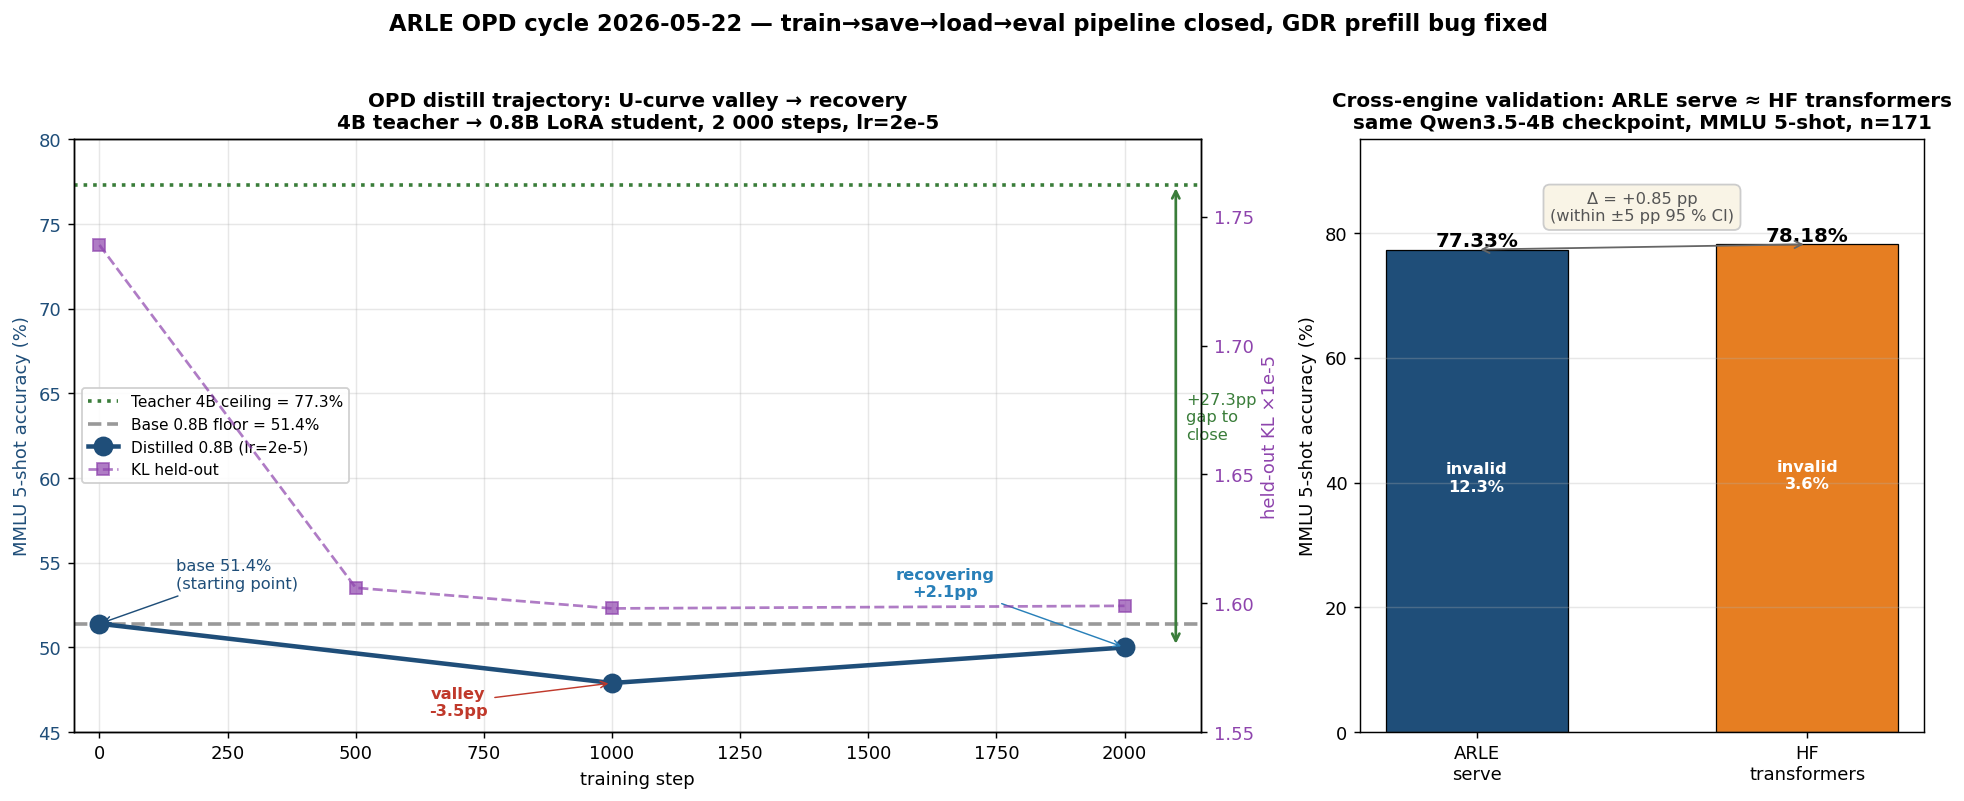
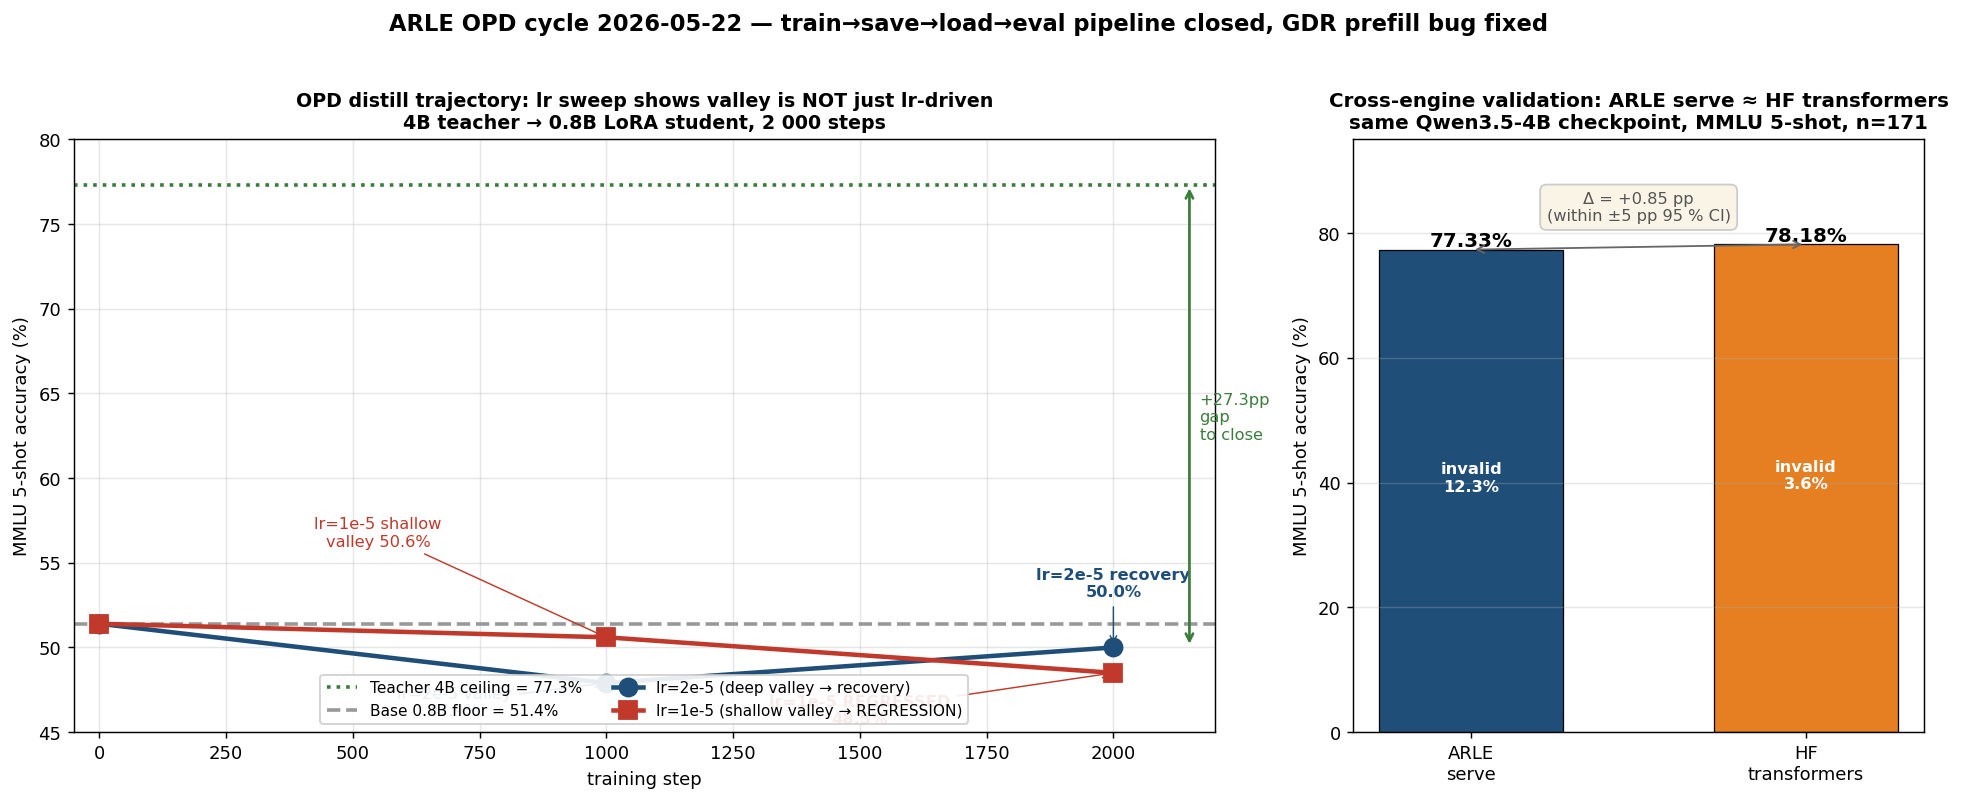
docs(opd): chart + README with lr sweep finding — valley is fundamental, not lr-driven
Codex P2 lr=1e-5 sweep (0629294) revealed: lr is NOT the simple knob for
the OPD U-curve. Comparison:

  lr=2e-5: 51.4% → 47.9% (valley) → 50.0% (recovery +2.1pp)
  lr=1e-5: 51.4% → 50.6% (shallow valley) → 48.5% (REGRESSION −2.1pp)

Lower lr buys a shallower valley but the recovery dynamic also weakens.
Neither lr crosses base 51.4% in 2k steps. → OPD U-curve is a
fundamental distillation dynamic, not a learning-rate artifact.

Chart rebuilt to overlay both lr trajectories vs the 4B teacher
ceiling. README headline updated with both runs + the lr-sweep KILL
errors entry link.

diff --git a/scripts/plot_opd_today.py b/scripts/plot_opd_today.py
@@ -21,63 +21,52 @@ OUT = Path(__file__).resolve().parents[1] / "docs/projects/img/2026-05-22-arle-o
 
 
 def panel_trajectory(ax):
-    steps = np.array([0, 500, 1000, 2000])
-    # MMLU accuracy (%): base=51.4, step1000=47.9, step2000=50.0 measured;
-    # step 500 not eval'd → interpolate as the segment between 51.4 → 47.9.
-    mmlu_distill = np.array([51.4, np.nan, 47.9, 50.0])
+    steps = np.array([0, 1000, 2000])
+    mmlu_lr2e5 = np.array([51.4, 47.9, 50.0])
+    mmlu_lr1e5 = np.array([51.4, 50.6, 48.5])
     base_floor = 51.4
     teacher_ceiling = 77.33
 
-    # KL trajectory (×1e-5): heldout
-    kl_heldout = np.array([1.739, 1.606, 1.598, 1.599])
-
-    # MMLU axis
-    ax.set_xlim(-50, 2150)
+    ax.set_xlim(-50, 2200)
     ax.set_ylim(45, 80)
     ax.set_xlabel("training step")
-    ax.set_ylabel("MMLU 5-shot accuracy (%)", color="#1f4e79")
-    ax.tick_params(axis="y", labelcolor="#1f4e79")
+    ax.set_ylabel("MMLU 5-shot accuracy (%)")
 
-    # Teacher ceiling line
-    ax.axhline(teacher_ceiling, color="#3a7d3a", linestyle=":", linewidth=2, label=f"Teacher 4B ceiling = {teacher_ceiling:.1f}%")
-    # Base floor line
-    ax.axhline(base_floor, color="#999999", linestyle="--", linewidth=2, label=f"Base 0.8B floor = {base_floor:.1f}%")
+    # Teacher ceiling + base floor
+    ax.axhline(teacher_ceiling, color="#3a7d3a", linestyle=":", linewidth=2,
+               label=f"Teacher 4B ceiling = {teacher_ceiling:.1f}%")
+    ax.axhline(base_floor, color="#999999", linestyle="--", linewidth=2,
+               label=f"Base 0.8B floor = {base_floor:.1f}%")
 
-    # MMLU distill points (only at measured steps)
-    mask = ~np.isnan(mmlu_distill)
-    ax.plot(steps[mask], mmlu_distill[mask], "o-", color="#1f4e79", linewidth=2.5, markersize=10,
-            label="Distilled 0.8B (lr=2e-5)")
+    # lr=2e-5 (deeper valley + recovery)
+    ax.plot(steps, mmlu_lr2e5, "o-", color="#1f4e79", linewidth=2.5, markersize=10,
+            label="lr=2e-5 (deep valley → recovery)")
+    # lr=1e-5 (shallow valley + regression)
+    ax.plot(steps, mmlu_lr1e5, "s-", color="#c0392b", linewidth=2.5, markersize=10,
+            label="lr=1e-5 (shallow valley → REGRESSION)")
 
-    # Annotations
-    ax.annotate("base 51.4%\n(starting point)", xy=(0, 51.4), xytext=(150, 53.5),
-                fontsize=9, ha="left", color="#1f4e79",
+    # Annotations on key points
+    ax.annotate("lr=2e-5 valley\n47.9%", xy=(1000, 47.9), xytext=(700, 46),
+                fontsize=9, ha="center", color="#1f4e79",
                 arrowprops=dict(arrowstyle="->", color="#1f4e79", lw=0.8))
-    ax.annotate("valley\n-3.5pp", xy=(1000, 47.9), xytext=(700, 46),
+    ax.annotate("lr=2e-5 recovery\n50.0%", xy=(2000, 50.0), xytext=(2000, 53),
+                fontsize=9, ha="center", color="#1f4e79", fontweight="bold",
+                arrowprops=dict(arrowstyle="->", color="#1f4e79", lw=0.8))
+    ax.annotate("lr=1e-5 shallow\nvalley 50.6%", xy=(1000, 50.6), xytext=(550, 56),
+                fontsize=9, ha="center", color="#c0392b",
+                arrowprops=dict(arrowstyle="->", color="#c0392b", lw=0.8))
+    ax.annotate("lr=1e-5 REGRESSED\n48.5%", xy=(2000, 48.5), xytext=(1500, 45.5),
                 fontsize=9, ha="center", color="#c0392b", fontweight="bold",
                 arrowprops=dict(arrowstyle="->", color="#c0392b", lw=0.8))
-    ax.annotate("recovering\n+2.1pp", xy=(2000, 50.0), xytext=(1650, 53),
-                fontsize=9, ha="center", color="#2980b9", fontweight="bold",
-                arrowprops=dict(arrowstyle="->", color="#2980b9", lw=0.8))
-    # Gap annotation
-    ax.annotate("",  xy=(2100, 77.33), xytext=(2100, 50.0),
+
+    # Capability gap to close
+    ax.annotate("", xy=(2150, 77.33), xytext=(2150, 50.0),
                 arrowprops=dict(arrowstyle="<->", color="#3a7d3a", lw=1.5))
-    ax.text(2120, 63.6, "+27.3pp\ngap to\nclose", fontsize=9, color="#3a7d3a", va="center")
+    ax.text(2170, 63.6, "+27.3pp\ngap\nto close", fontsize=9, color="#3a7d3a", va="center")
 
-    # KL secondary axis
-    ax2 = ax.twinx()
-    ax2.set_ylim(1.55, 1.78)
-    ax2.set_ylabel("held-out KL ×1e-5", color="#8e44ad")
-    ax2.tick_params(axis="y", labelcolor="#8e44ad")
-    ax2.plot(steps, kl_heldout, "s--", color="#8e44ad", linewidth=1.5, markersize=7, alpha=0.7,
-             label="KL held-out")
-
-    # Combined legend
-    h1, l1 = ax.get_legend_handles_labels()
-    h2, l2 = ax2.get_legend_handles_labels()
-    ax.legend(h1 + h2, l1 + l2, loc="center left", fontsize=8.5, framealpha=0.9)
-
-    ax.set_title("OPD distill trajectory: U-curve valley → recovery\n4B teacher → 0.8B LoRA student, 2 000 steps, lr=2e-5",
-                 fontsize=11, fontweight="bold")
+    ax.legend(loc="lower center", fontsize=8.5, framealpha=0.9, ncol=2)
+    ax.set_title("OPD distill trajectory: lr sweep shows valley is NOT just lr-driven\n4B teacher → 0.8B LoRA student, 2 000 steps",
+                 fontsize=10.5, fontweight="bold")
     ax.grid(True, alpha=0.3)
 
 

diff --git a/README.md b/README.md
@@ -132,9 +132,12 @@ Operators wanting only the serving binary can use `infer` directly — same HTTP
 
 - **Bug fixed:** `arle serve` corruption on prompts ≥ 33 tokens (Qwen3.5 hybrid GDR chunkwise prefill divergence) → MMLU recovered 0/171 invalid → 116/150 = 77.3 % ([`a374108`](https://github.com/cklxx/arle/commit/a374108)).
 - **Pipeline closed:** OPD train saves LoRA adapter (PEFT format) → `INFER_LORA_PATH` loads in CUDA serve → `scripts/arle_capability_eval.py` produces before/after MMLU table.
-- **Distill trajectory at lr=2e-5, 2 000 steps:** classic OPD U-curve. Base 51.4 % → step 1000 valley 47.9 % (−3.5 pp, invalid 29 → 2) → step 2000 50.0 % (recovering, +2.1 pp). KL bottoms at step 1000, but MMLU keeps moving — **KL ≠ capability** in the recovery phase. Literature horizon (10 k–100 k steps) needed to cross the +25.9 pp 4B teacher ceiling.
+- **Distill trajectory + lr sweep (2k steps each):** OPD U-curve is **fundamental, not just lr-driven**.
+  - `lr=2e-5`: base 51.4 % → step 1000 deep valley **47.9 %** (−3.5 pp) → step 2000 recovering **50.0 %** (+2.1 pp).
+  - `lr=1e-5`: base 51.4 % → step 1000 shallow valley **50.6 %** (−0.8 pp) → step 2000 **REGRESSED 48.5 %** (−2.1 pp from peak).
+  - Lower lr ≠ shallower valley ≠ faster recovery. Neither lr crosses base in 2 k steps. → Need longer horizon (10 k +) or GKD λ-mixing, not just lr tuning.
 
-Evidence: [`serve fix`](docs/experience/wins/2026-05-22-arle-serve-long-prompt-bug-fix.md) · [`pipeline close`](docs/experience/wins/2026-05-22-p1b-train-save-load-eval-loop.md) · [`U-curve diagnosis`](docs/experience/wins/2026-05-22-distill-trajectory-valley-then-recovery.md) · [`cross-validation`](docs/experience/wins/2026-05-22-arle-vs-hf-transformers-cross-validation.md) · [`cycle wrap`](docs/projects/2026-05-22-serve-fix-and-capability-baselines.md)
+Evidence: [`serve fix`](docs/experience/wins/2026-05-22-arle-serve-long-prompt-bug-fix.md) · [`pipeline close`](docs/experience/wins/2026-05-22-p1b-train-save-load-eval-loop.md) · [`U-curve diagnosis`](docs/experience/wins/2026-05-22-distill-trajectory-valley-then-recovery.md) · [`lr sweep KILL`](docs/experience/errors/2026-05-22-p2-lr-sweep-not-the-fix.md) · [`cross-validation`](docs/experience/wins/2026-05-22-arle-vs-hf-transformers-cross-validation.md) · [`cycle wrap`](docs/projects/2026-05-22-serve-fix-and-capability-baselines.md)
 
 ---
 